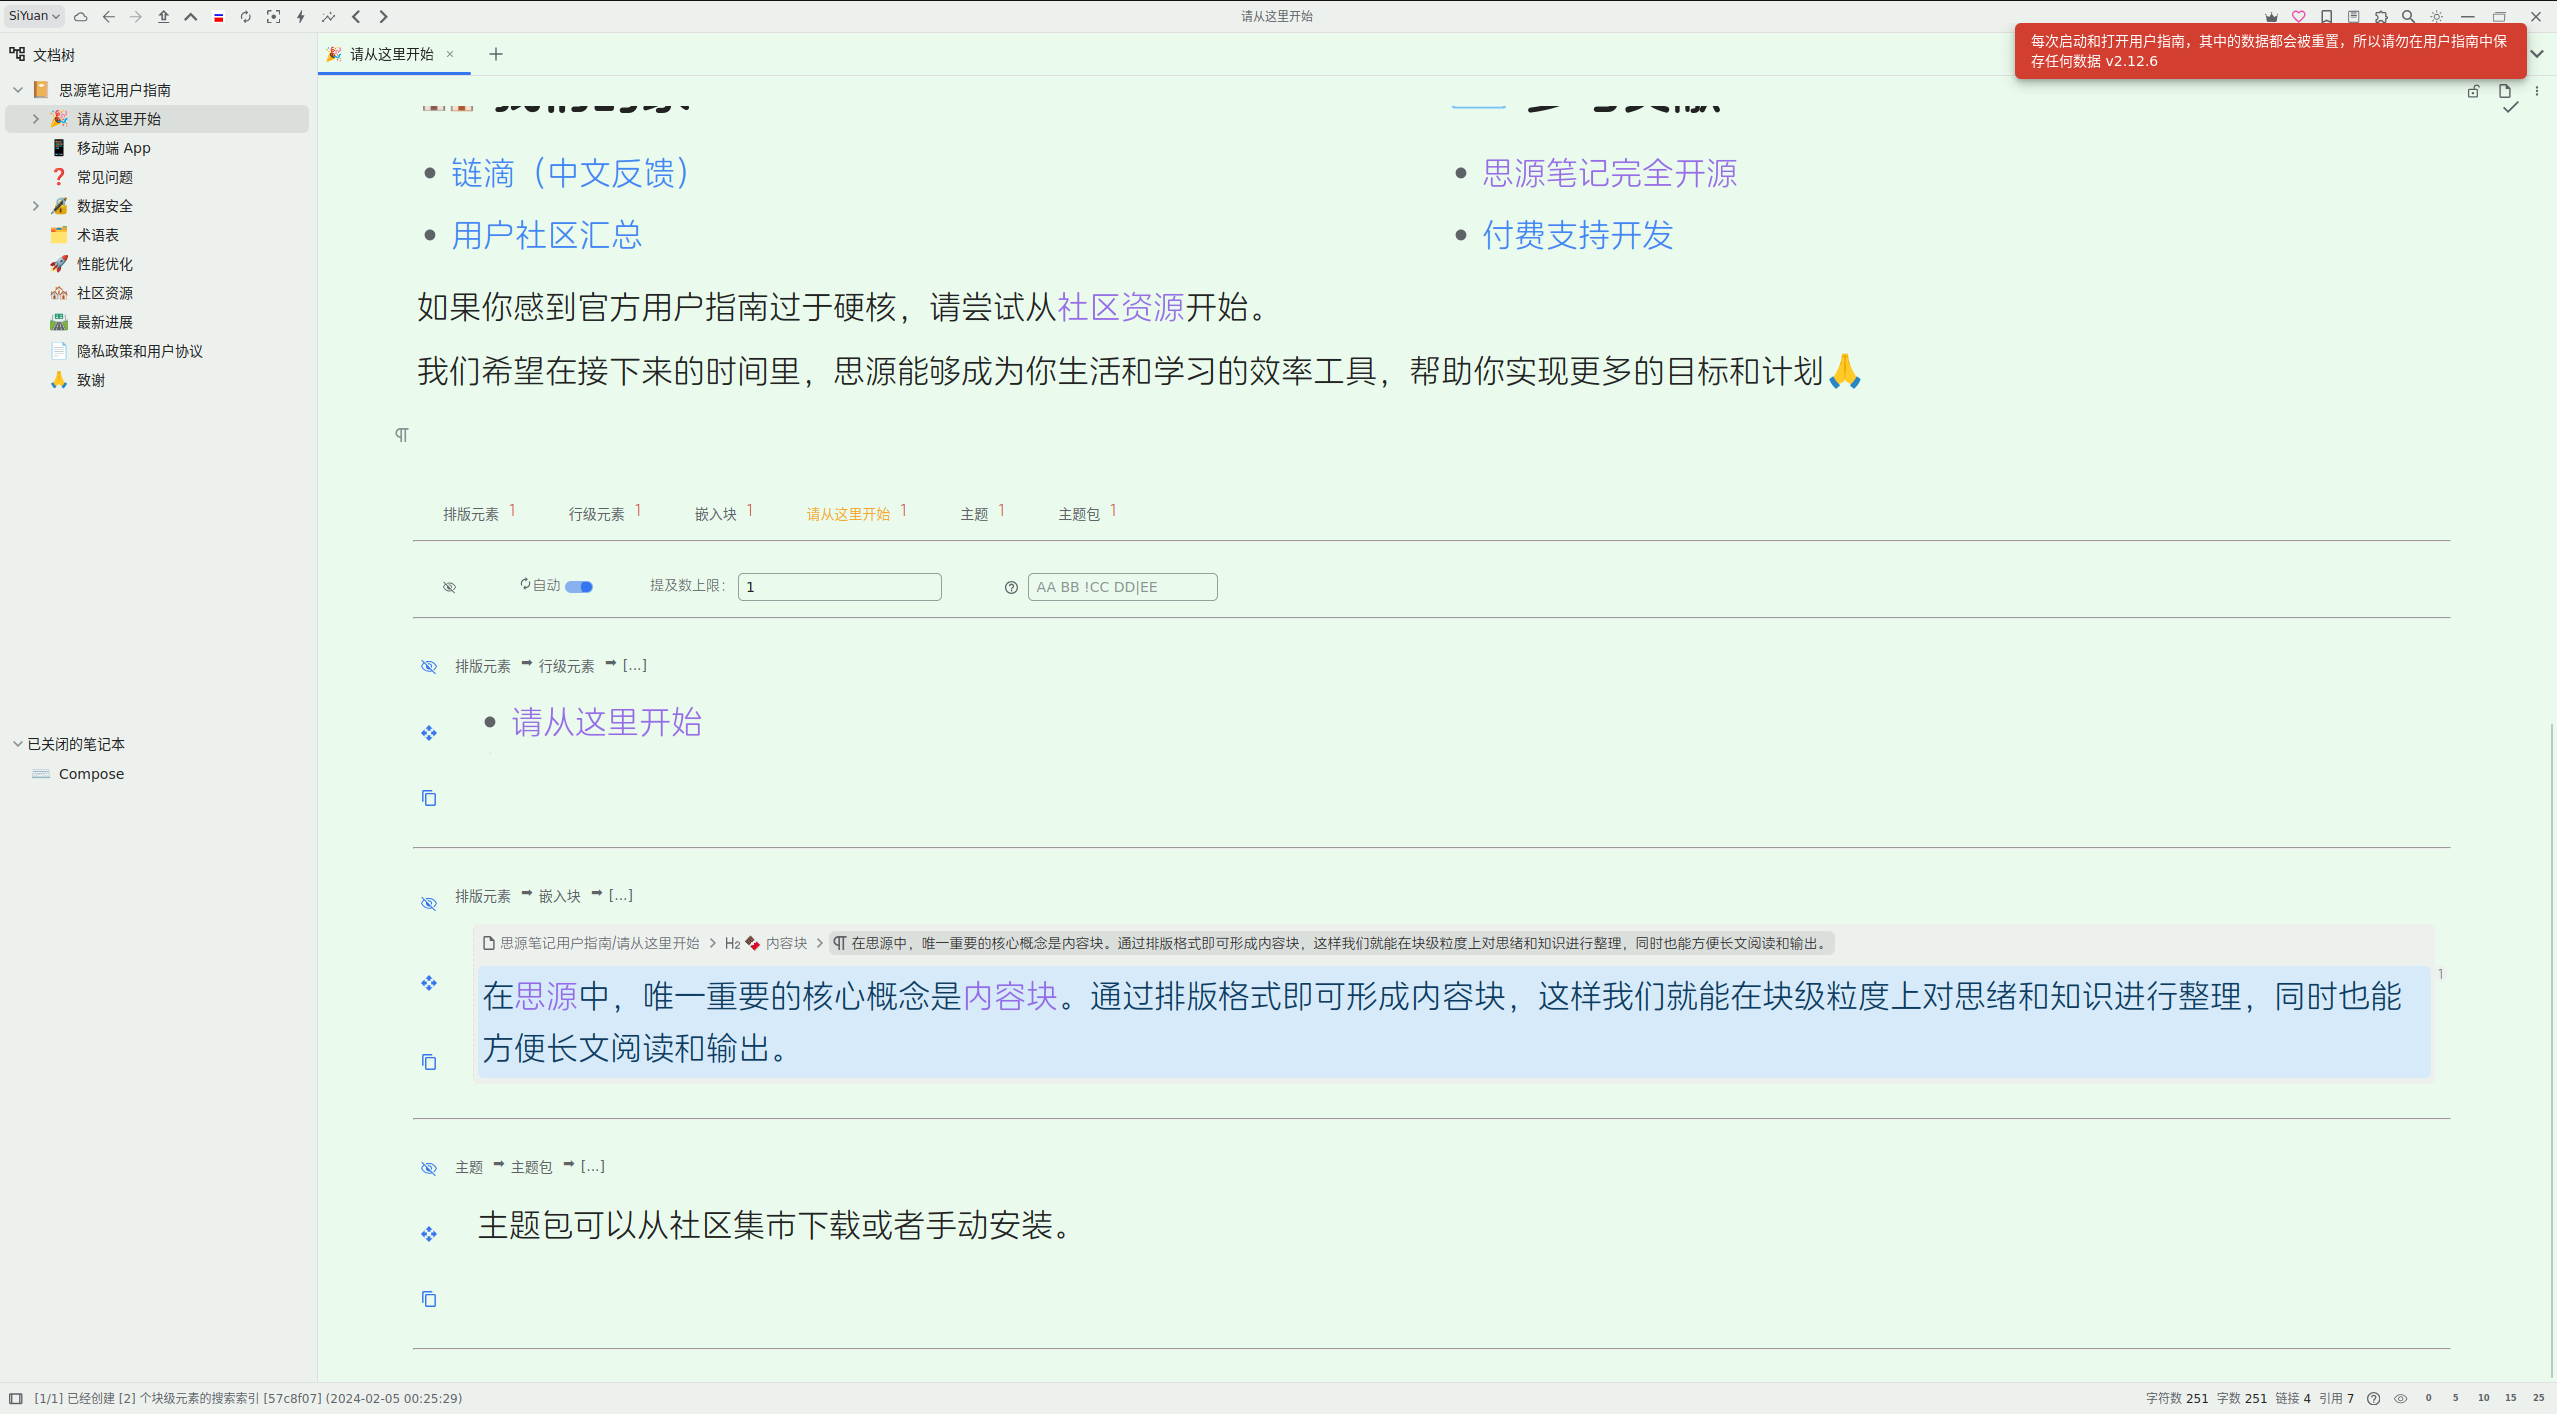
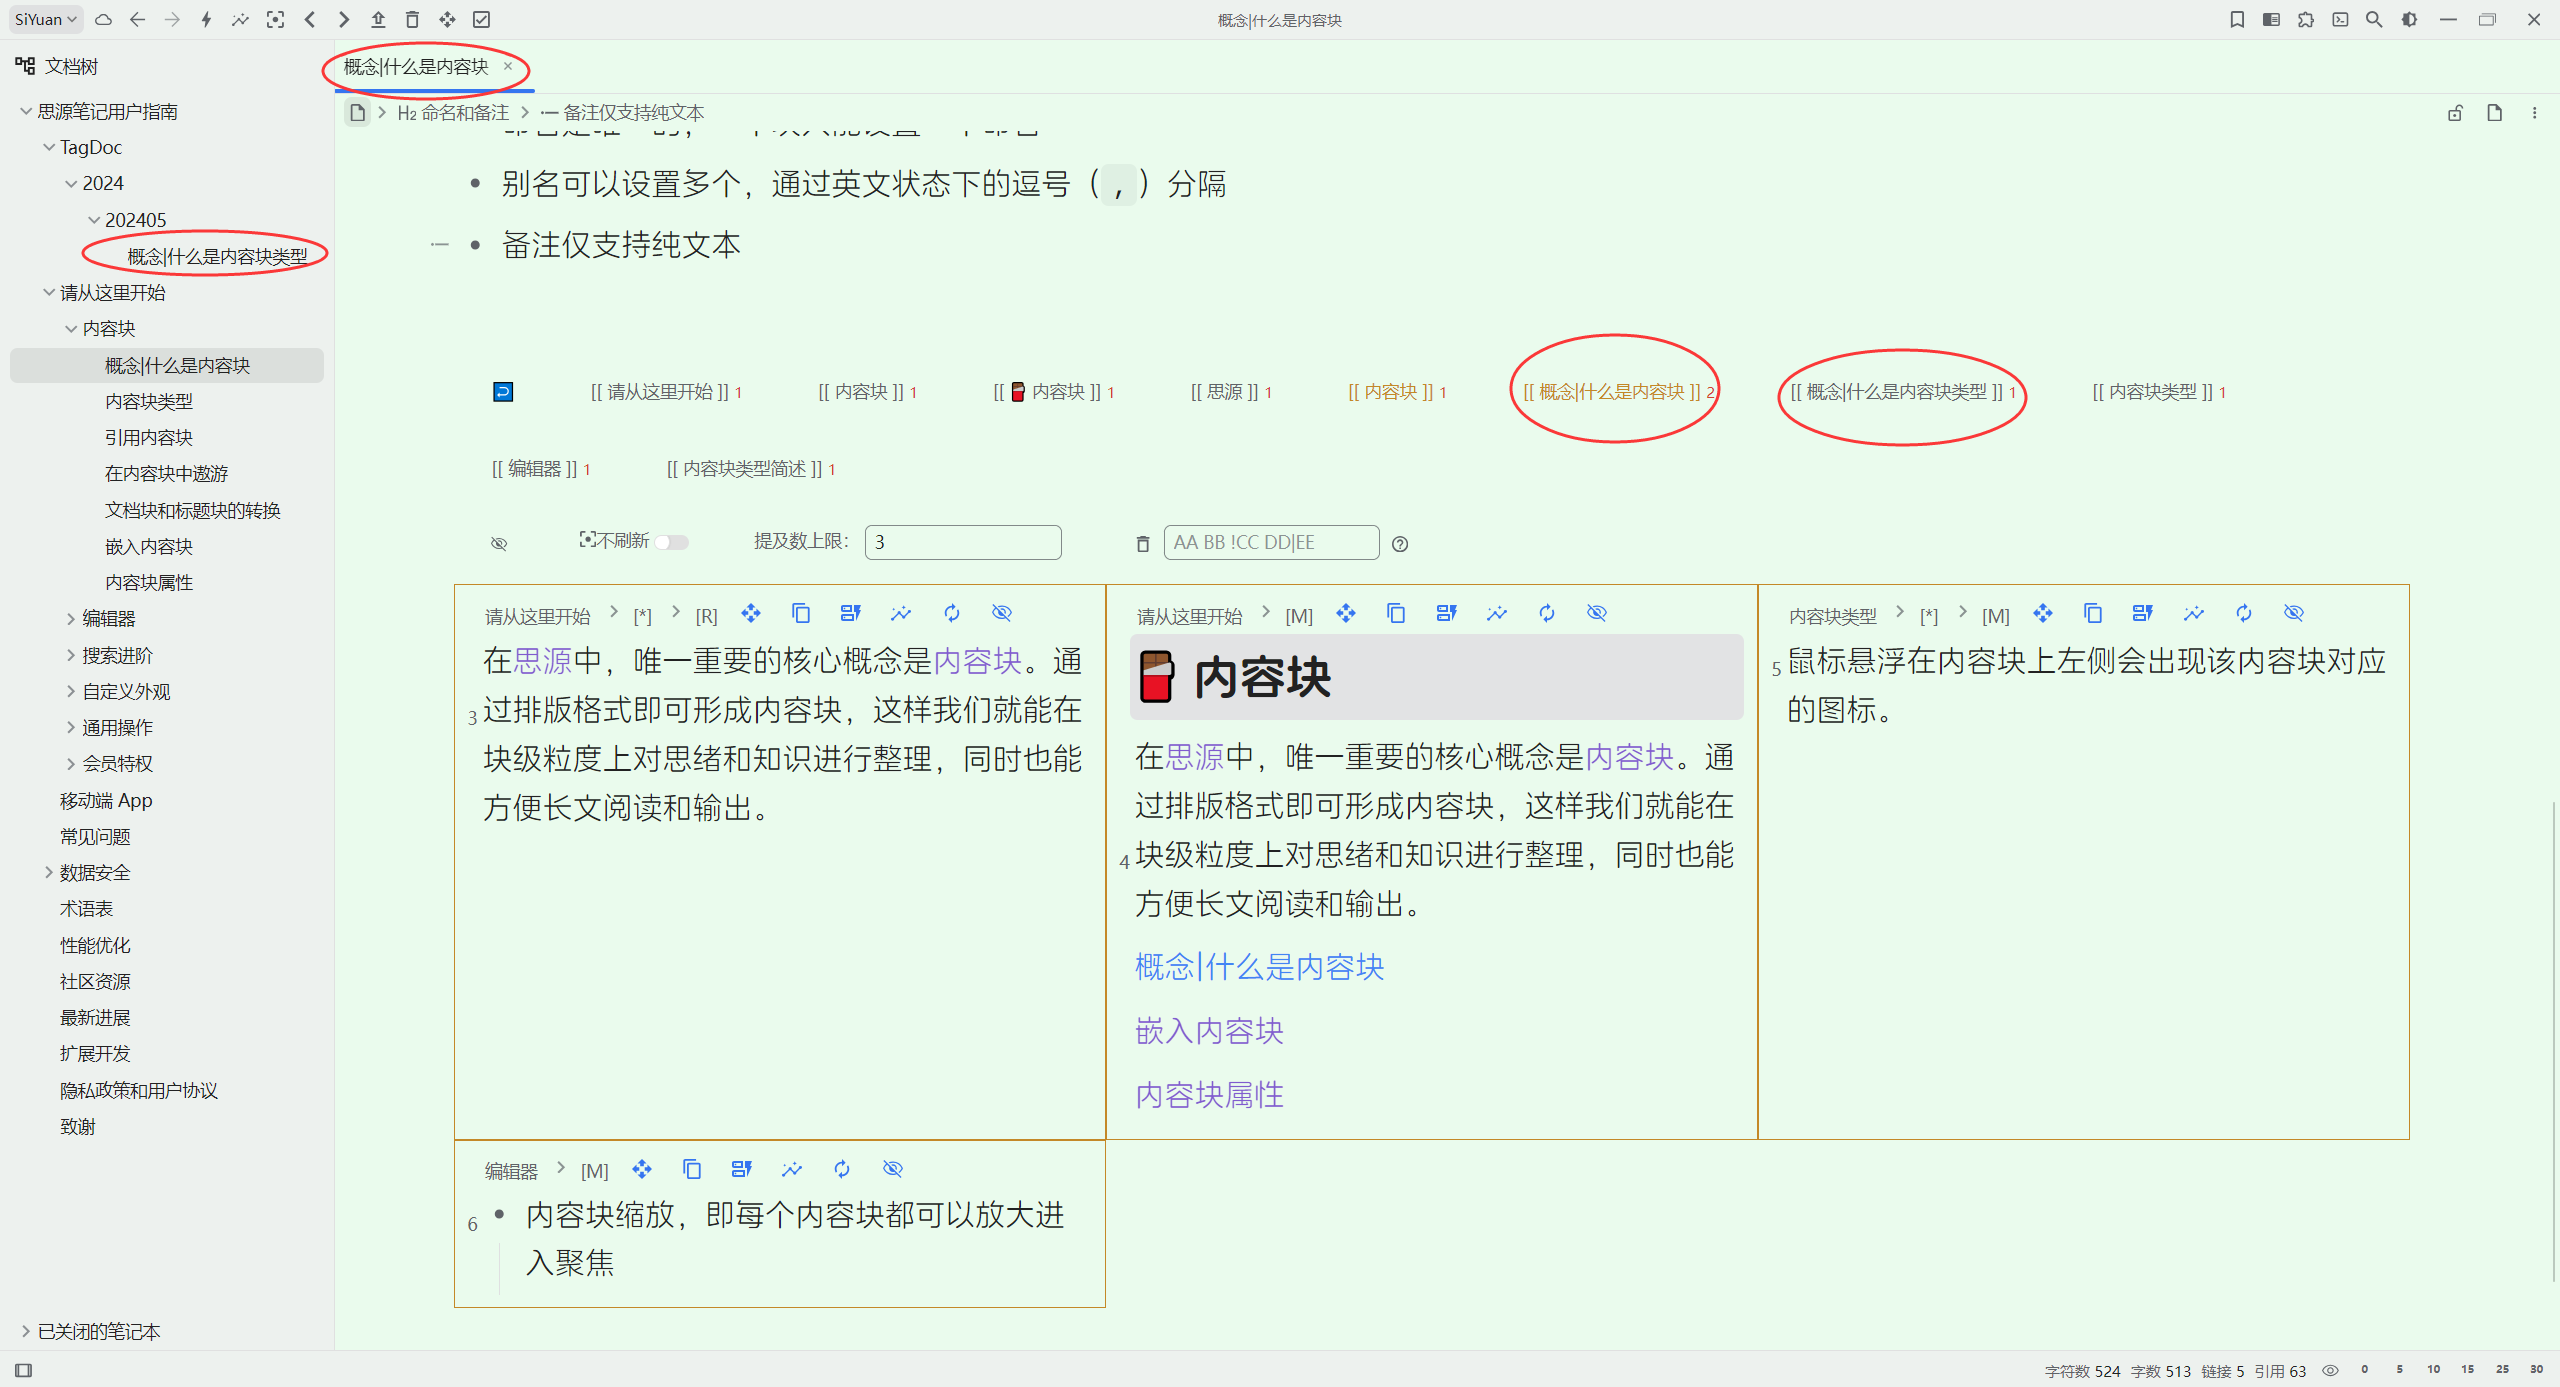
auto

diff --git a/README_zh_CN.md b/README_zh_CN.md
@@ -146,11 +146,15 @@
 
 > [打不开图片请看这里](https://gitee.com/TokenzQdBN/sy-plugins/blob/main/sy-tomato-plugin/README_zh_CN.md)
 
-## 底部反链区
+## 底部反链
 
 加入类似 `logseq` 的底部反链区。对于列表/大纲块，我们可以看到其上级与下级。上级从面包屑看，下级从内容中看。
 
 **能力：可以编辑、拖动、一键复制、一键移动、实时搜索过滤、标识某个反链是否属于当前文档等……**
+
+**`相邻概念`：`AA|BB` 的反链的双链栏，会出现：`EE|AA`、`AA|CC`、`BB|DD`、`AA`、`BB` 如果有。（图中红圈）**
+
+**`相关概念`：双链栏除了`相邻概念`的其他双链。**
 
 <img src="assets/bottomBK.png" alt="drawing" width="1000"/>
 
@@ -158,7 +162,7 @@
 
 > [打不开图片请看这里](https://gitee.com/TokenzQdBN/sy-plugins/blob/main/sy-tomato-plugin/README_zh_CN.md)
 
-### 搜索语法
+### 底部反链::搜索语法
 
 *输入框内支持多个`关键词`实时搜索。*
 
@@ -474,6 +478,7 @@ aacc3
 
 ## 2024-05-29
 
+* 底部反链：引入`相关概念`：`AA|BB` 的反链的双链栏，会出现：`AA|CC`、`BB|DD`、`AA`、`BB` 如果有。
 * 闪念：规避冲突的bug.
 * 闪念：输入框出现上次旧内容的bug。
 * 底部反链：移动端bug。
@@ -669,7 +674,7 @@ aacc3
 
 ## 2024-03-22
 
-* 底部反链：点击概念栏上的概念，可对反链面板进行过滤。点击(单选), ctrl点击(并且), shift点击(排除), alt点击(或者)。
+* 底部反链：点击双链栏上的概念，可对反链面板进行过滤。点击(单选), ctrl点击(并且), shift点击(排除), alt点击(或者)。
 
 ## 2024-03-20
 
